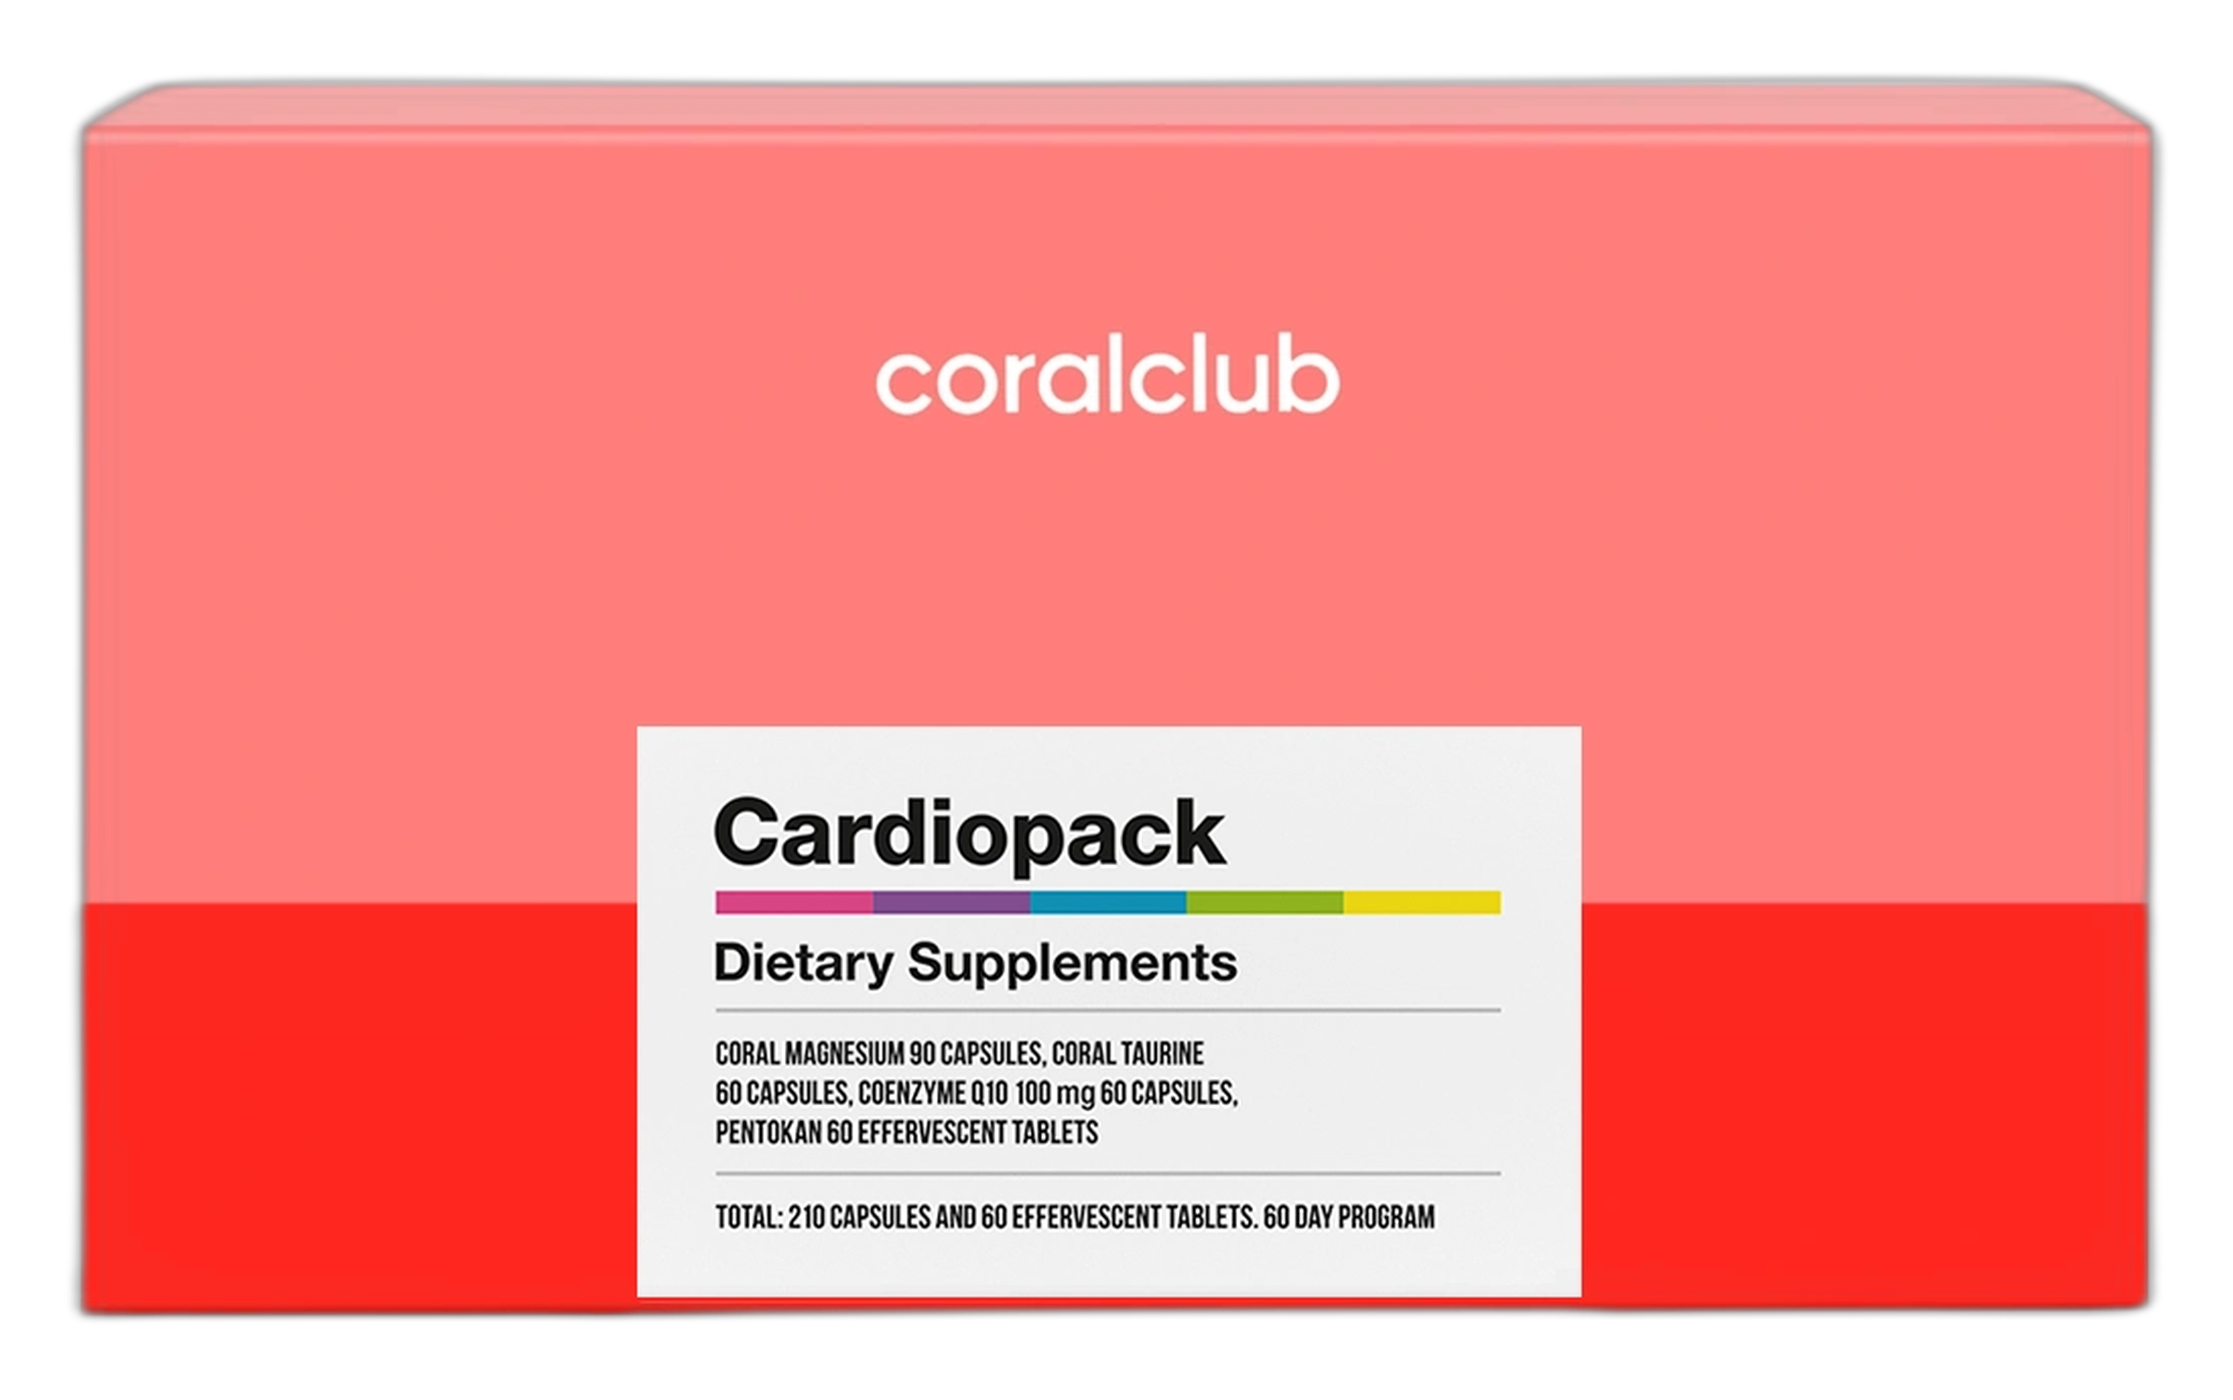
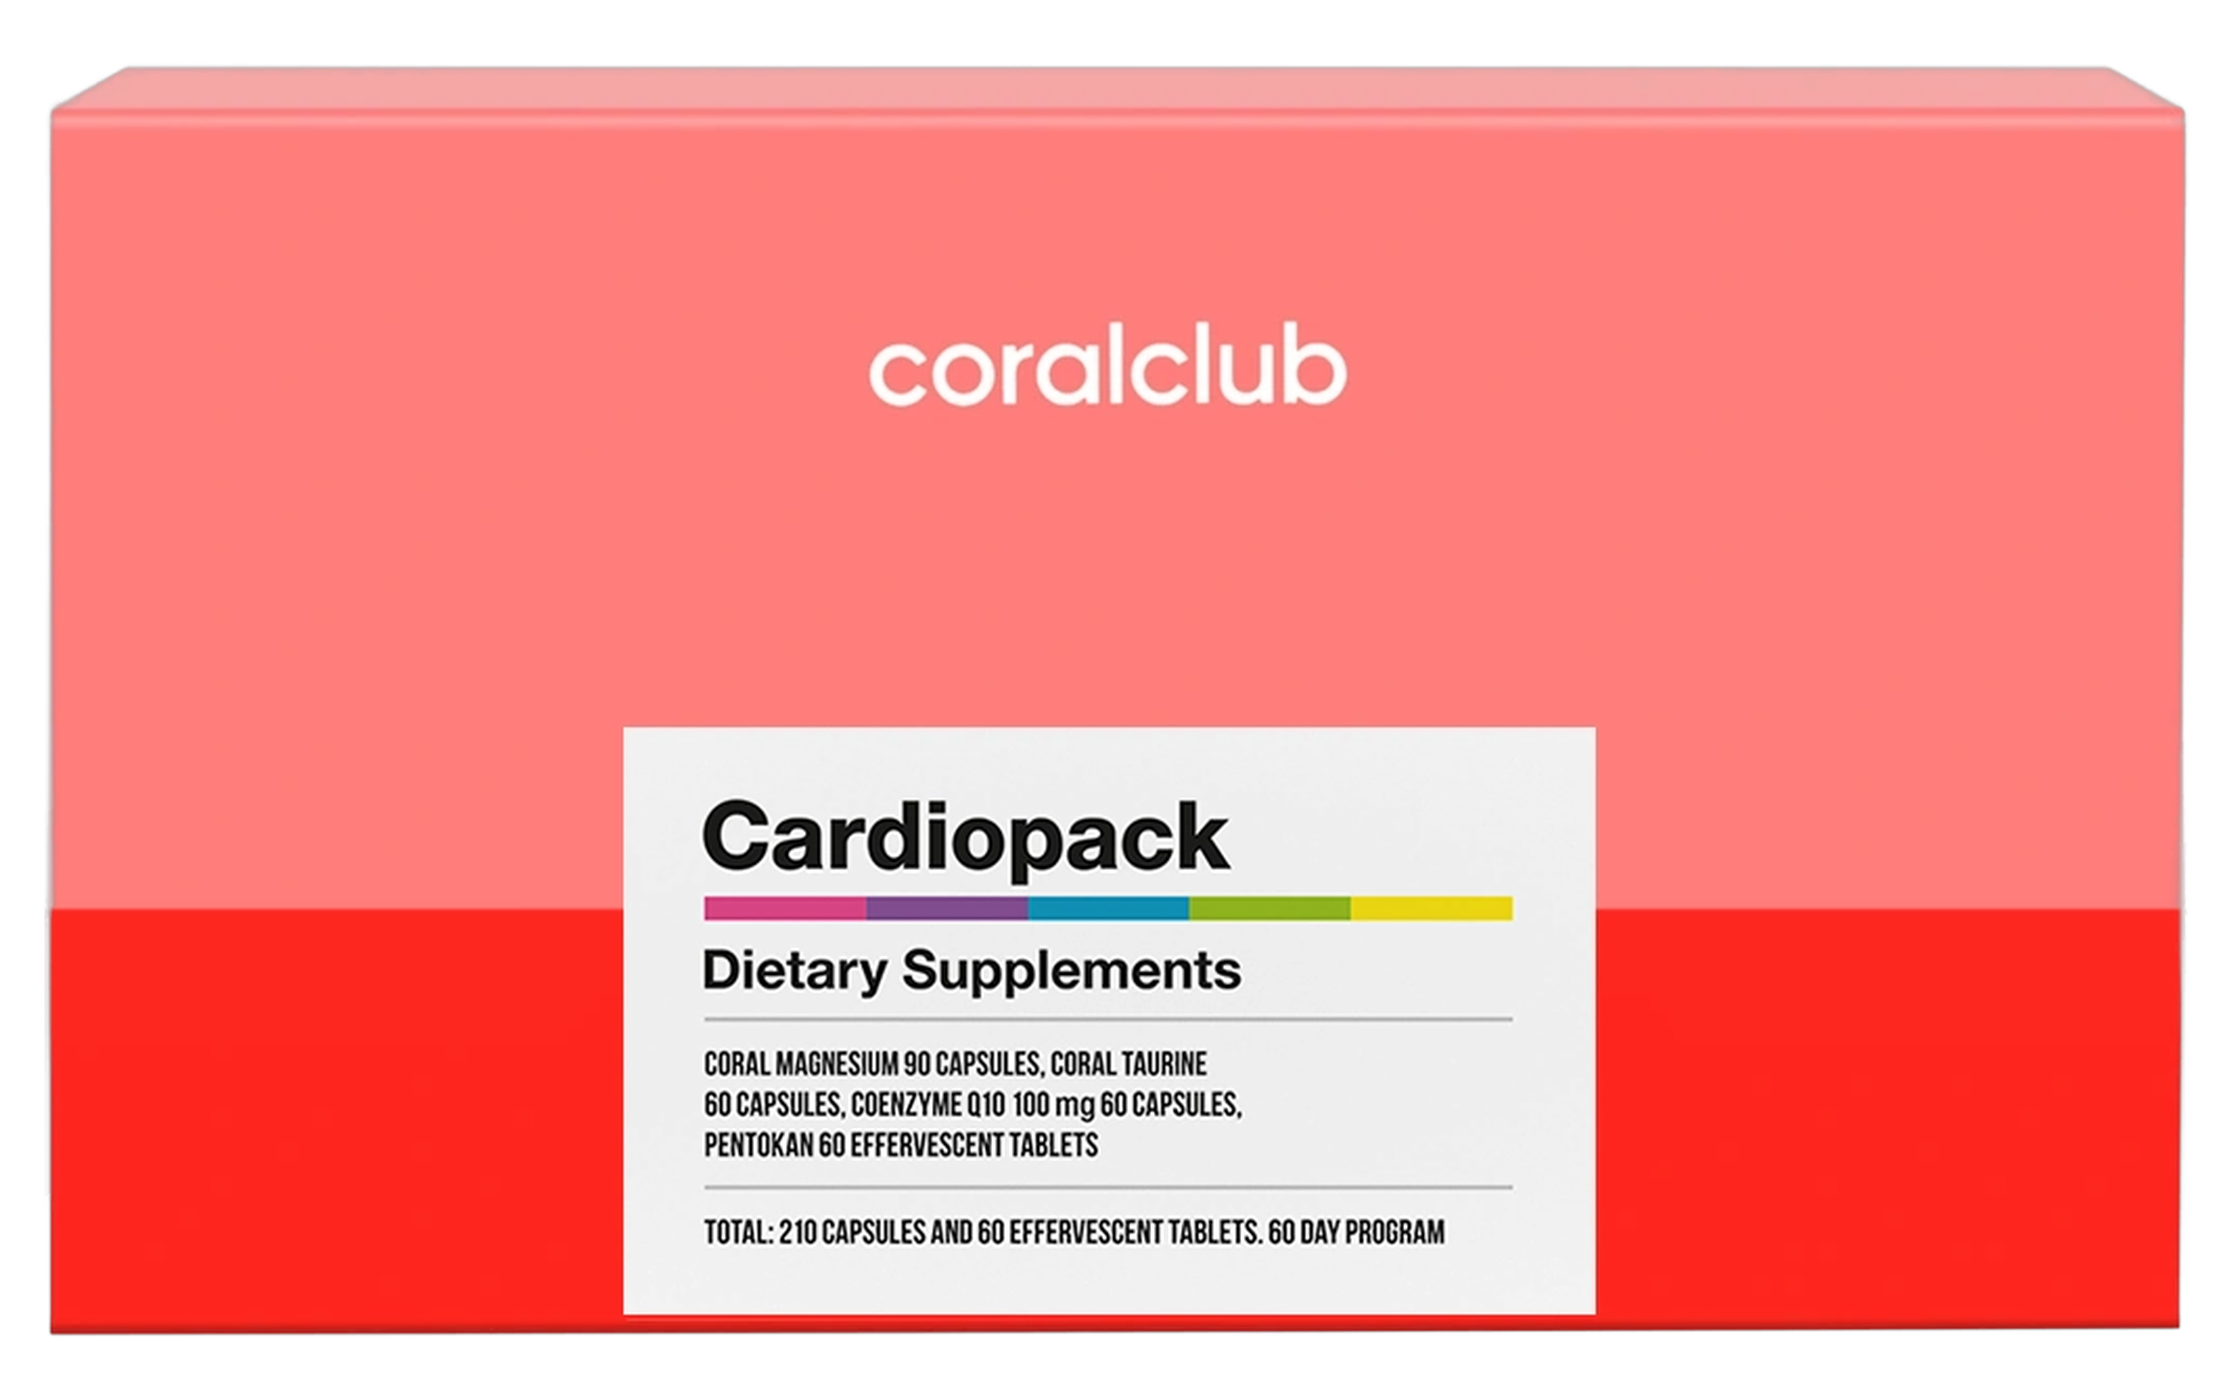
Sharper packshot cutouts: isnet-general-use + alpha-matting refinement
u2net's mask was visibly soft/haloed at high-contrast edges (white bottles
on light backgrounds). Switched the model to isnet-general-use and turned
on rembg's alpha-matting edge refinement (pymatting) — compared the two on
the same source crop and the edge is materially crisper. Regenerated all 6
Energy packshots from earlier with the improved pipeline.

Changed region(s): [[0.0, 0.0307, 0.9888, 0.9521], [0.3708, 0.215, 0.618, 0.3071]]

diff --git a/scripts/cutout-product.py b/scripts/cutout-product.py
@@ -8,11 +8,13 @@ slider elsewhere in the app).
 
 Usage:
     python3 scripts/cutout-product.py <slug> [<slug> ...]
-    python3 scripts/cutout-product.py --url <slug> <image-url>
+    python3 scripts/cutout-product.py --url <image-url> <slug>
 
 One-time setup:
-    pip3 install rembg onnxruntime pillow
-    (first run downloads the ~176 MB u2net model to ~/.u2net, cached after)
+    pip3 install rembg onnxruntime pillow pymatting
+    (first run downloads the ~179 MB isnet-general-use model to ~/.u2net,
+    cached after. pymatting powers the alpha-matting edge refinement —
+    without it the edges are visibly softer.)
 
 What it does NOT do:
 - Wire the result into content/products/<slug>.json (carouselImages /
@@ -32,6 +34,7 @@ import sys
 import time
 import urllib.request
 from pathlib import Path
+from typing import Optional, Tuple
 
 from PIL import Image
 
@@ -50,7 +53,7 @@ def fetch(url: str) -> bytes:
         return r.read()
 
 
-def first_gallery_image(slug: str) -> str | None:
+def first_gallery_image(slug: str) -> Optional[str]:
     """Best-effort: the page's default/selected gallery photo. For
     multi-variant products this can be the wrong flavour/colour — verify."""
     html = fetch(f"https://coralclub.us/shop/{slug}.html").decode("utf-8", "ignore")
@@ -64,13 +67,23 @@ def first_gallery_image(slug: str) -> str | None:
     return f"https://coralclub.us{m.group(1)}" if m else None
 
 
+MODEL = "isnet-general-use"  # sharper edges than u2net — much less halo/blur
+
+
 def cutout(session, raw_bytes: bytes, tmp: Path) -> Image.Image:
     from rembg import remove
 
     tmp.write_bytes(raw_bytes)
     im = Image.open(tmp).convert("RGB")
     im.save(tmp)  # normalise format for rembg
-    return remove(Image.open(tmp), session=session)
+    return remove(
+        Image.open(tmp),
+        session=session,
+        alpha_matting=True,
+        alpha_matting_foreground_threshold=240,
+        alpha_matting_background_threshold=10,
+        alpha_matting_erode_size=5,
+    )
 
 
 def frame(img: Image.Image) -> Image.Image:
@@ -92,7 +105,7 @@ def frame(img: Image.Image) -> Image.Image:
     return canvas
 
 
-def process(slug: str, url: str | None, session, workdir: Path) -> tuple[str, str]:
+def process(slug: str, url: Optional[str], session, workdir: Path) -> Tuple[str, str]:
     url = url or first_gallery_image(slug)
     if not url:
         return "NO_IMAGE_FOUND", ""
@@ -114,7 +127,7 @@ def main() -> None:
 
     from rembg import new_session
 
-    session = new_session("u2net")
+    session = new_session(MODEL)
     workdir = REPO / ".cutout-tmp"
     workdir.mkdir(exist_ok=True)
 
